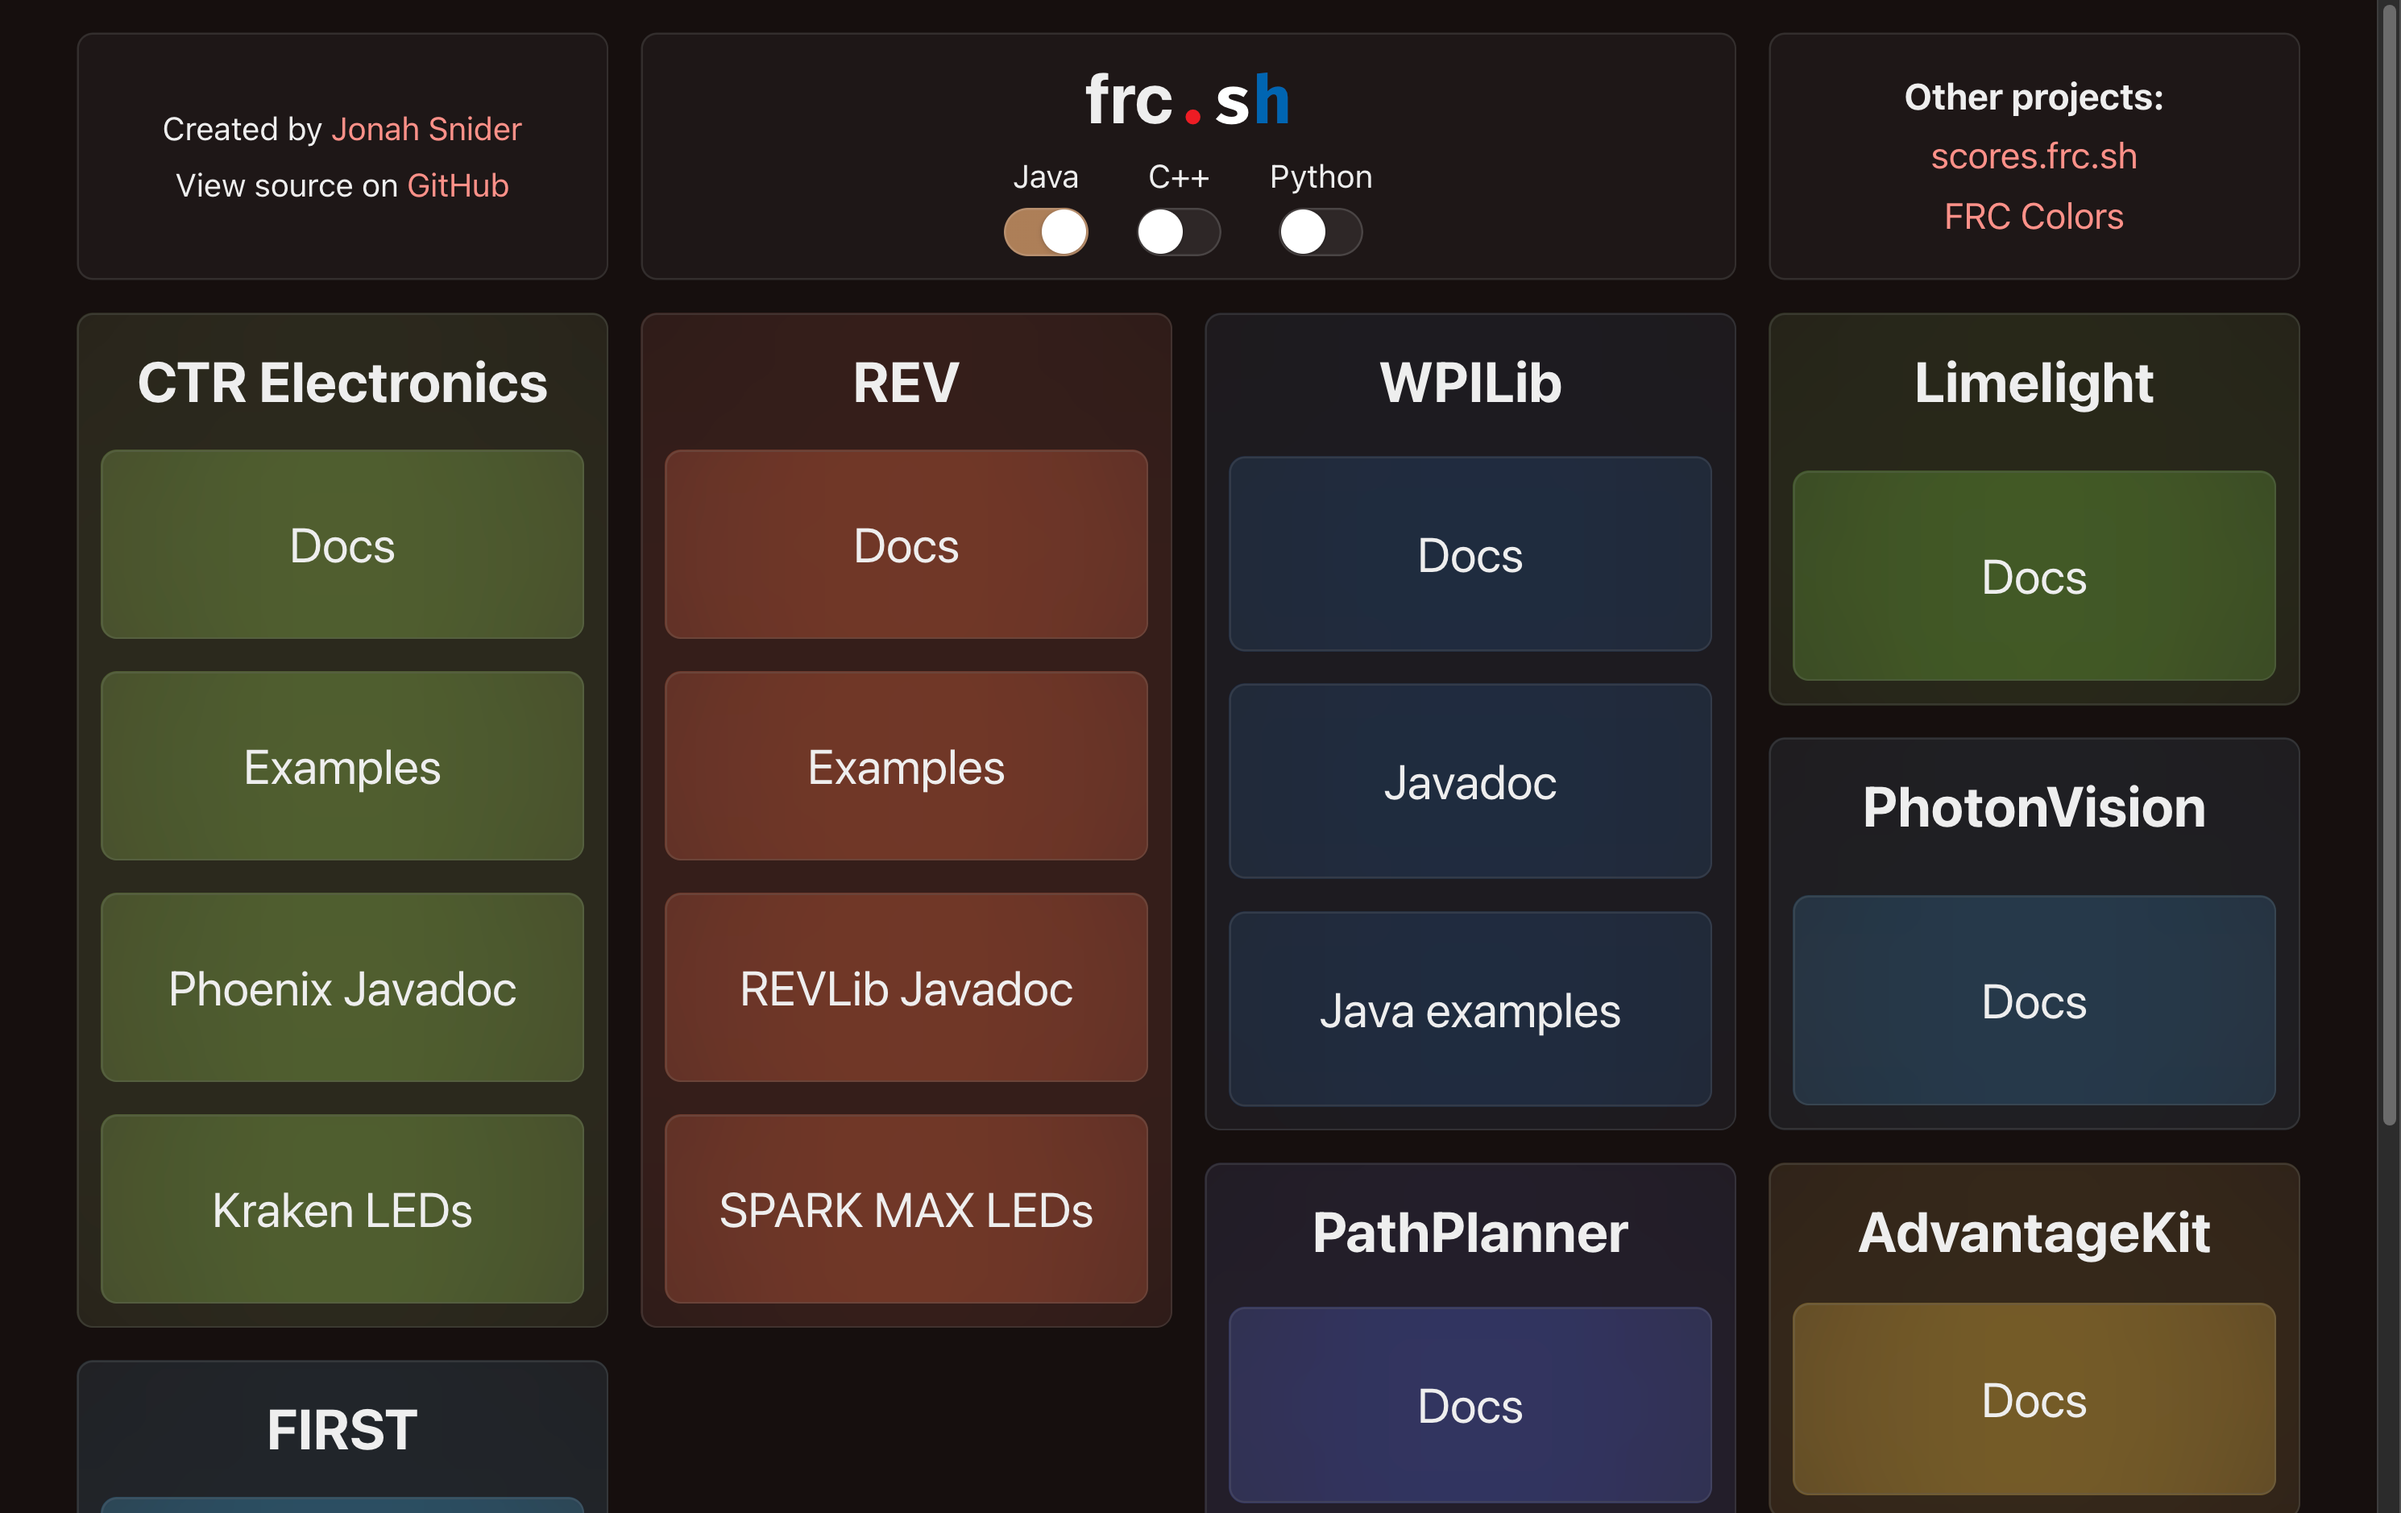
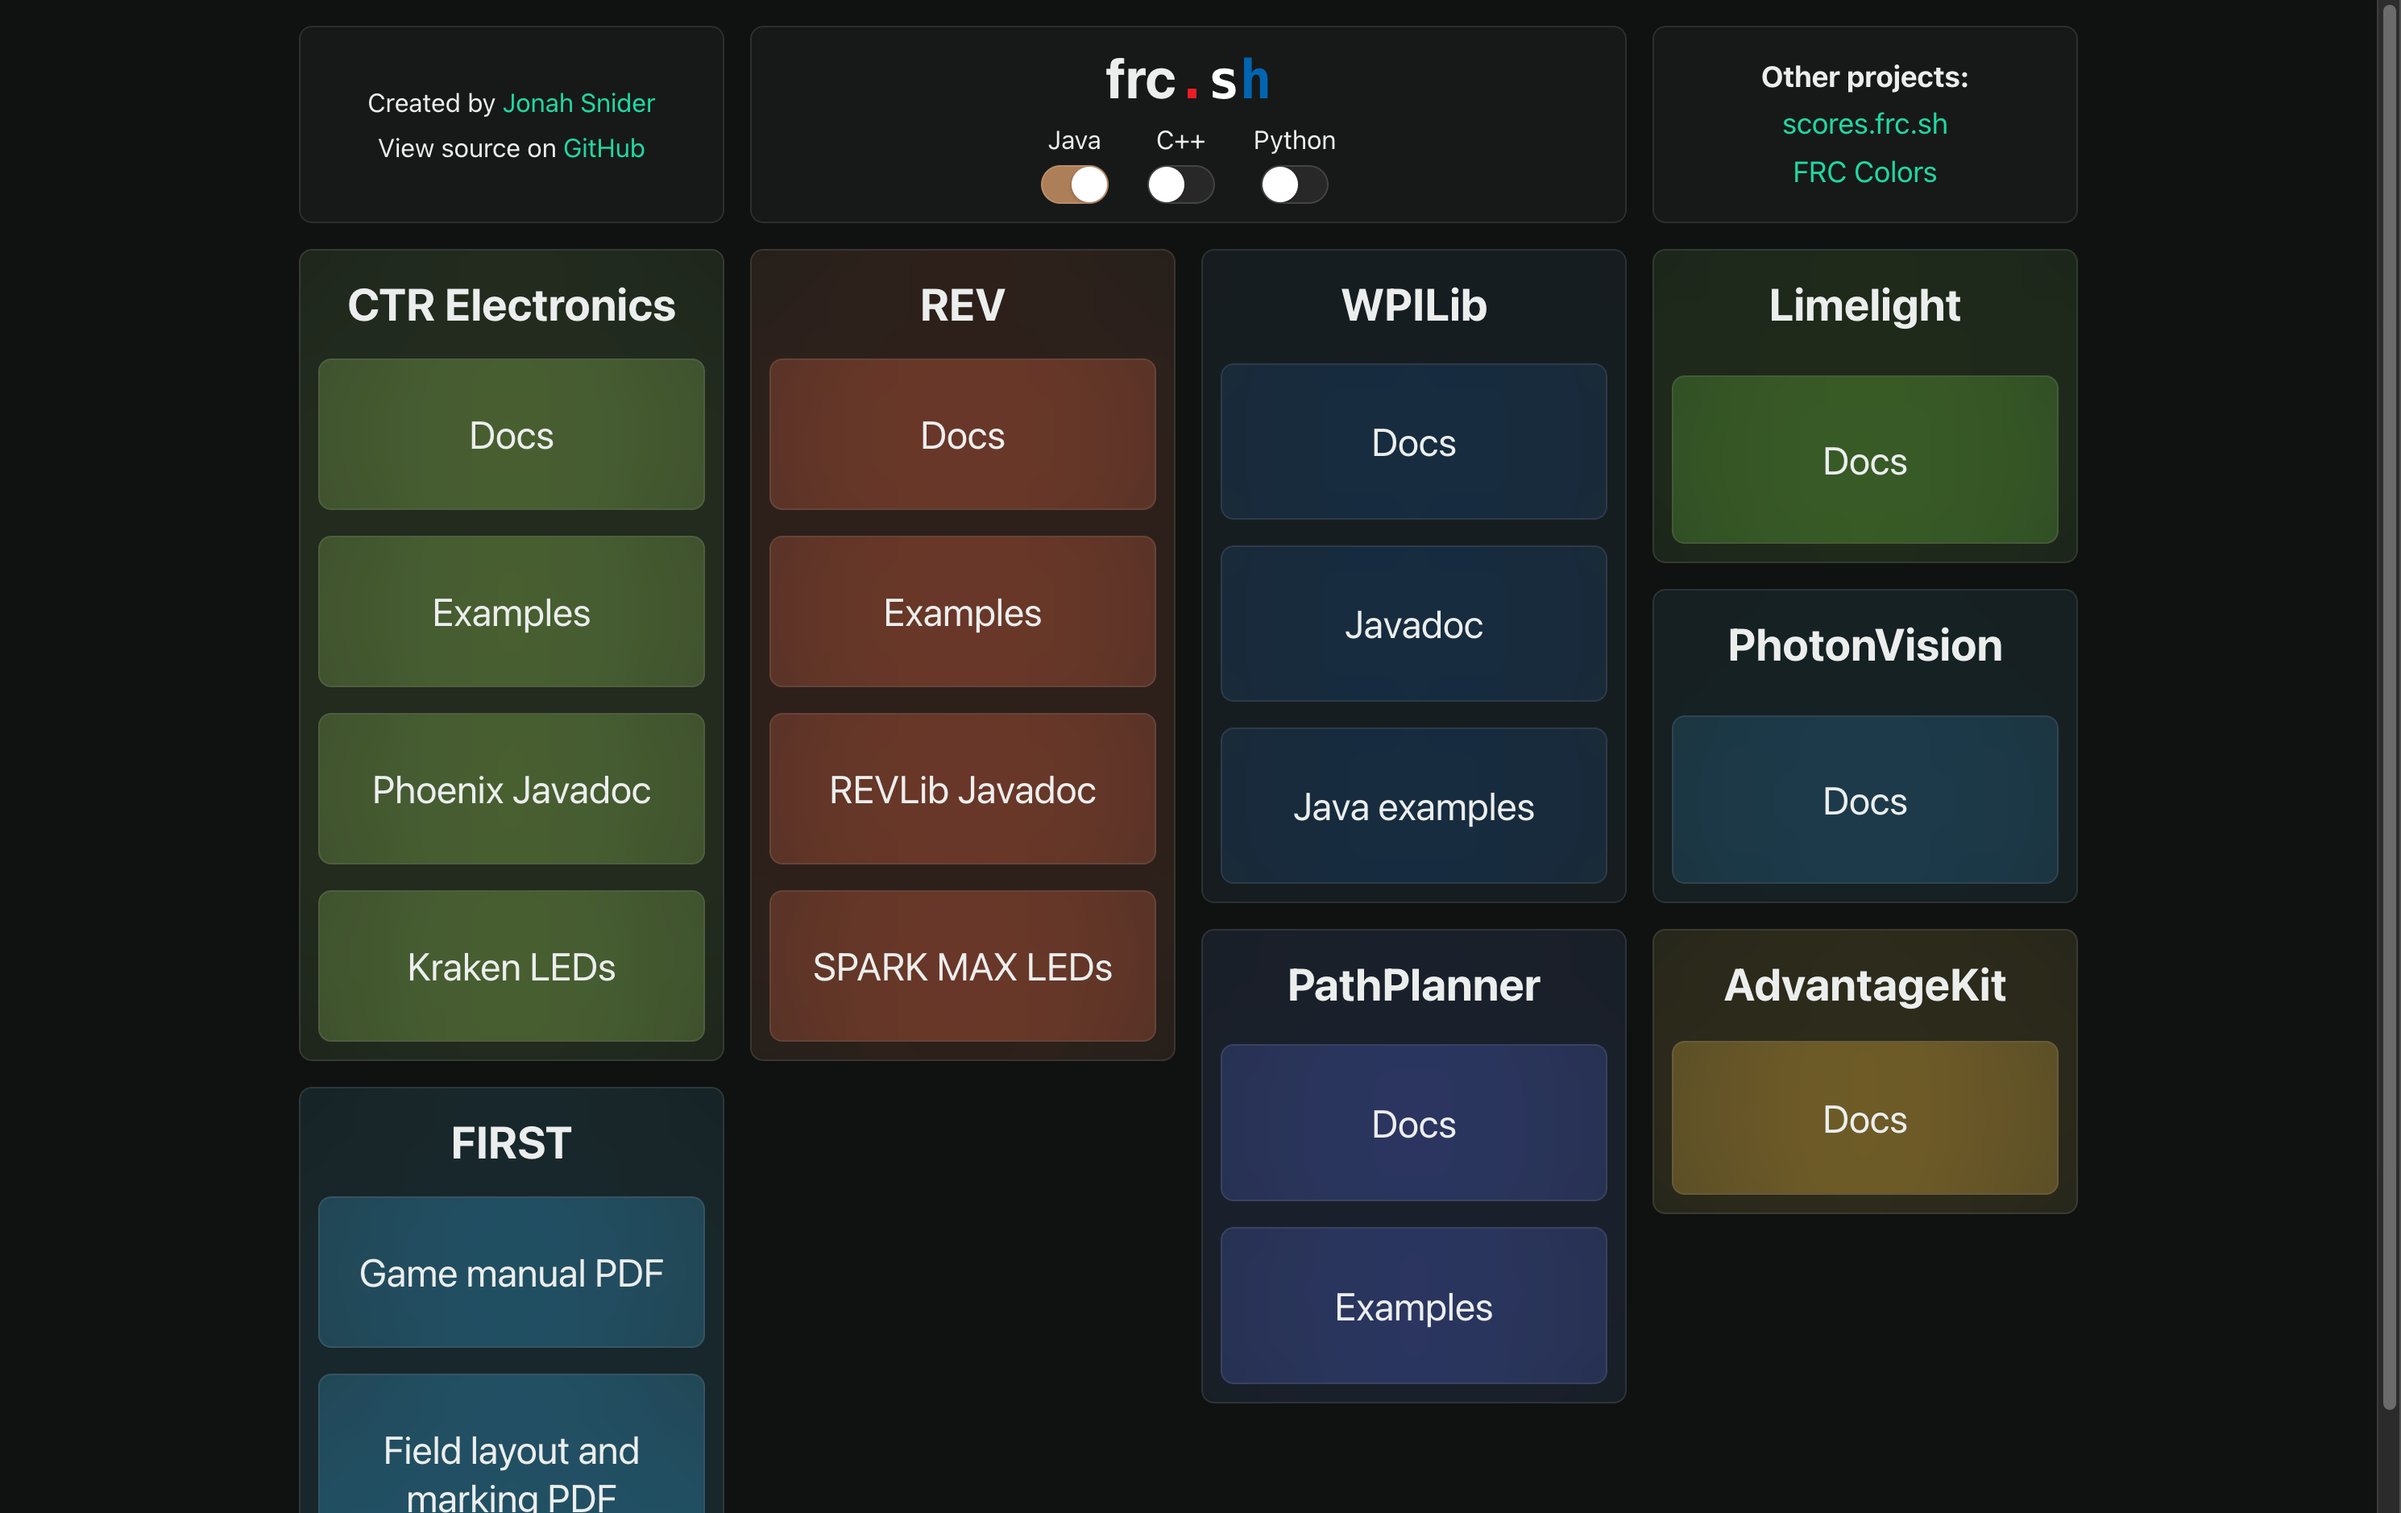
feat: improve light theme and update webmanifests

diff --git a/src/app/layout.tsx b/src/app/layout.tsx
@@ -1,7 +1,8 @@
+import { WebmanifestMetaTag } from '@/components/webmanifest-meta-tag';
 import { Container, Theme } from '@radix-ui/themes';
 import { Analytics } from '@vercel/analytics/react';
 import clsx from 'clsx';
-import type { Metadata } from 'next';
+import type { Metadata, Viewport } from 'next';
 import PlausibleProvider from 'next-plausible';
 import { ThemeProvider } from 'next-themes';
 import { Fira_Mono } from 'next/font/google';
@@ -20,6 +21,14 @@ export const metadata: Metadata = {
 		siteName: 'frc.sh',
 		description: 'Quick links for FRC programming & software resources.',
 	},
+	manifest: '/light.webmanifest',
+};
+
+export const viewport: Viewport = {
+	themeColor: {
+		color: '#29A383',
+	},
+	colorScheme: 'dark light',
 };
 
 // biome-ignore lint/style/noDefaultExport: This has to be a default export
@@ -34,6 +43,8 @@ export default function RootLayout({ children }: { children: React.ReactNode }) 
 					<Theme accentColor='jade' grayColor='sage'>
 						<Container>{children}</Container>
 					</Theme>
+
+					<WebmanifestMetaTag />
 				</ThemeProvider>
 
 				<Analytics />

diff --git a/src/components/webmanifest-meta-tag.tsx b/src/components/webmanifest-meta-tag.tsx
@@ -1,0 +1,21 @@
+'use client';
+
+import { useTheme } from 'next-themes';
+import { useEffect } from 'react';
+
+export function WebmanifestMetaTag() {
+	// next/head isn't a thing in app router, and webmanifests don't support media queries (https://github.com/w3c/manifest/issues/975)
+	// So, this is the best way to swap out the webmanifest based on the current color scheme
+	const { resolvedTheme: theme } = useTheme();
+	const tag = typeof document === 'undefined' ? undefined : document.querySelector('link[rel="manifest"]');
+
+	useEffect(() => {
+		if (tag) {
+			const url = `/${theme === 'dark' ? 'dark' : 'light'}.webmanifest`;
+
+			tag.setAttribute('href', url);
+		}
+	}, [theme, tag]);
+
+	return <></>;
+}

diff --git a/src/components/tile-group.tsx b/src/components/tile-group.tsx
@@ -57,7 +57,7 @@ export function TileGroup({ category, tiles, title }: Props) {
 		<Theme accentColor={getAccentColor(category)} asChild={true}>
 			<Card
 				className={clsx(
-					'col-span-1 grid grid-cols-subgrid gap-rx-4 bg-opacity-10 pt-rx-4 sm:col-span-1 xs:col-span-2',
+					'col-span-1 grid grid-cols-subgrid gap-rx-4 bg-opacity-40 pt-rx-4 sm:col-span-1 xs:col-span-2 dark:bg-opacity-10',
 					{
 						'bg-ctre': category === CategoryId.Ctre,
 						'bg-advantagekit': category === CategoryId.Advantagekit,

diff --git a/src/components/tile.tsx b/src/components/tile.tsx
@@ -31,7 +31,7 @@ export function Tile({ name, url, category, className, parentTitle }: Props) {
 					'bg-photonvision': category === CategoryId.Photonvision,
 					'bg-first-sky-blue': category === CategoryId.First,
 				},
-				'col-span-1 bg-opacity-30 hover:bg-opacity-35',
+				'col-span-1 dark:bg-opacity-30 dark:hover:bg-opacity-35 hover:bg-opacity-90',
 				className,
 			)}
 		>

diff --git a/src/components/page-header-tile.tsx b/src/components/page-header-tile.tsx
@@ -20,7 +20,7 @@ export function PageHeaderTile() {
 						frc
 						<Code variant='ghost' className='-tracking-widest'>
 							<span className='text-first-red'>.</span>
-							<span className='text-first-white'>s</span>
+							<span className='dark:text-first-white'>s</span>
 							<span className='text-first-blue'>h</span>
 						</Code>
 					</Heading>
